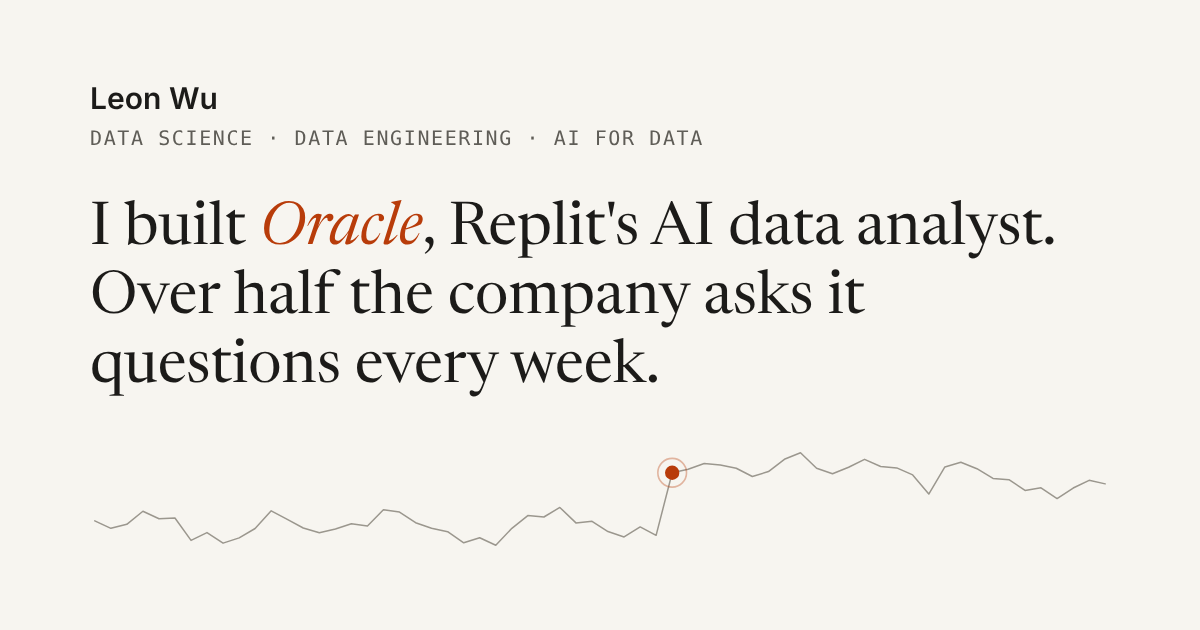
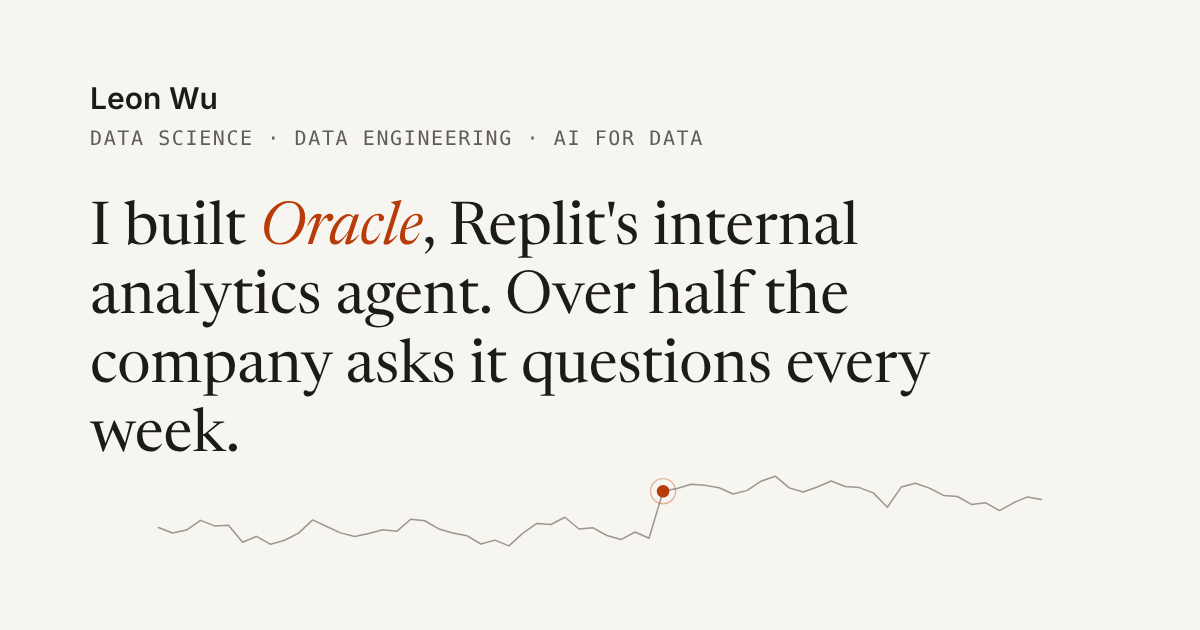
Apply fourth review round
- Redraw misleading card art: descriptive Oracle question with metric/filter/SQL
  chips, labelled message sorting with an ambiguous case, conversion curve vs
  usage, labelled funnel, SQL paired with its English question
- Tighten card copy (role first on Oracle, several-fold, OpenAI Jan 2023)
- Restore the changepoint line and caption in the intro card
- Remove section pills and duplicate footer links on home; compact, always-dark
  contact card; align meta descriptions

Claude-Session: https://claude.ai/code/session_01De9e6Q9Y3jMqxPCjAmYfKd

diff --git a/src/site.ts b/src/site.ts
@@ -5,7 +5,7 @@ export const SITE = {
   name: 'Leon Wu',
   title: 'Leon Wu · Staff Data Scientist',
   description:
-    'Leon Wu built Oracle, Replit’s AI data analyst. Staff data scientist and data engineer on Replit’s founding data team; previously finance data science at Indeed.',
+    'Leon Wu built Oracle, Replit’s internal analytics agent. Staff data scientist on Replit’s founding data team, owning growth, monetization and revenue analytics and the data stack underneath. Previously Indeed.',
   email: 'lw75251@gmail.com',
   github: 'https://github.com/lw75251',
   linkedin: 'https://www.linkedin.com/in/aleonwu/',
